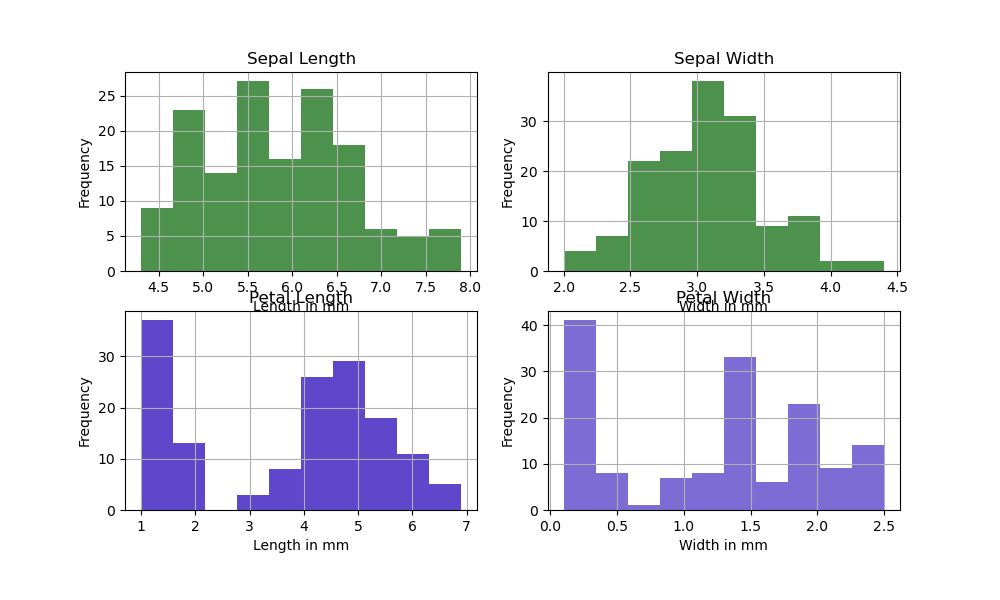
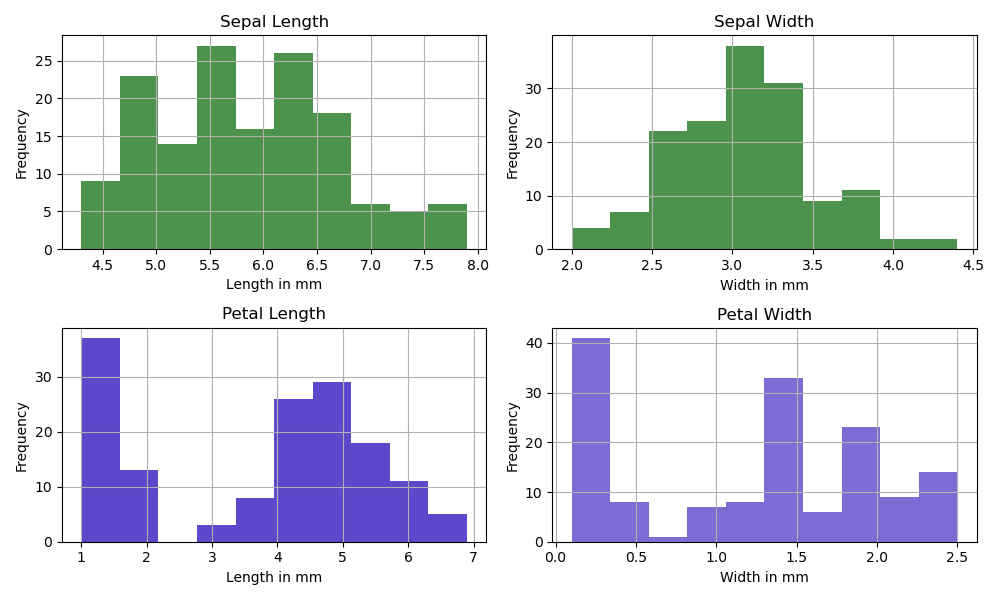
Fixed overlapping problem

diff --git a/analysis.py b/analysis.py
@@ -24,13 +24,11 @@ iris["sepal_length"].hist(ax=axes[0,0], color="darkgreen", alpha=0.7)  # isolate
 axes[0,0].set_xlabel("Length in mm") # labels the x axis, along the bottom
 axes[0,0].set_ylabel("Frequency") # labels the y axis, up the side
 axes[0,0].set_title("Sepal Length") # gives a title to this individual histogram
-plt.subplots_adjust(bottom=0.15) # adjusts the spacing between the margins of the subplots so that x axis labels do not overlap with the titles of the next subplots
 
 iris["sepal_width"].hist(ax=axes[0,1], color="darkgreen", alpha=0.7)
 axes[0,1].set_xlabel("Width in mm")
 axes[0,1].set_ylabel("Frequency")
 axes[0,1].set_title("Sepal Width")
-plt.subplots_adjust(bottom=0.15) # adjusts the spacing between the margins of the subplots so that x axis labels do not overlap with the titles of the next subplots
 
 iris["petal_length"].hist(ax=axes[1,0], color="#5E47CB") # hexadecimal colour of random iris flower
 axes[1,0].set_xlabel("Length in mm")
@@ -41,7 +39,7 @@ iris["petal_width"].hist(ax=axes[1,1], color="#5E47CB", alpha= 0.8)
 axes[1,1].set_xlabel("Width in mm")
 axes[1,1].set_ylabel("Frequency")
 axes[1,1].set_title("Petal Width")
-plt.tight_layout  # prevents overlapping of subplots
+plt.tight_layout()  # prevents overlapping of subplots
 plt.savefig("variable_overview_hist.png")          # saves the histogram to a PNG file
 plt.show()  # displays the histogram when the program is run
 
@@ -94,5 +92,3 @@ virginica["petal_width"].hist(ax=axes4[2], color="#5E47CB", alpha=0.7)
 axes4[2].set_title("Virginica Petal Width")
 #plt.savefig("petal_width_comparison.png")
 #plt.show()
-
-# Overlapping histograms petal length and sepals
